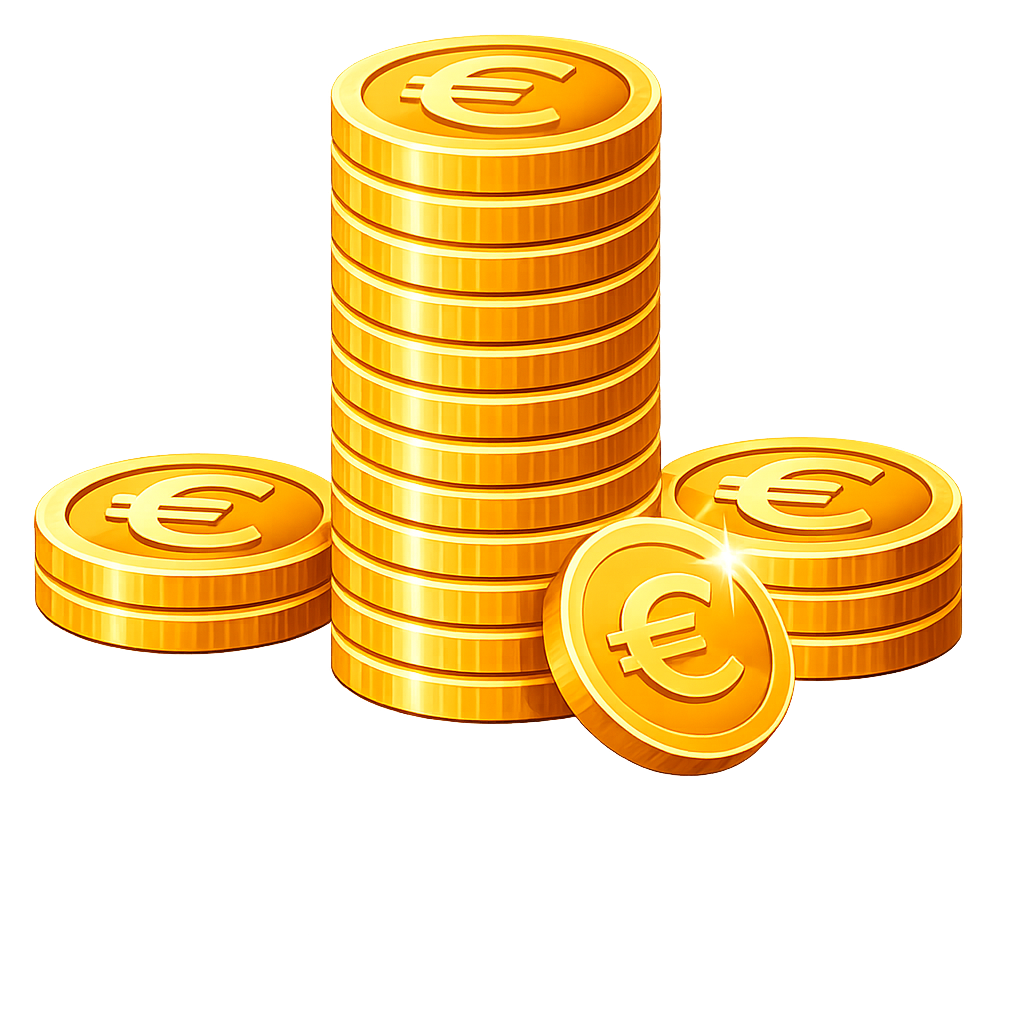
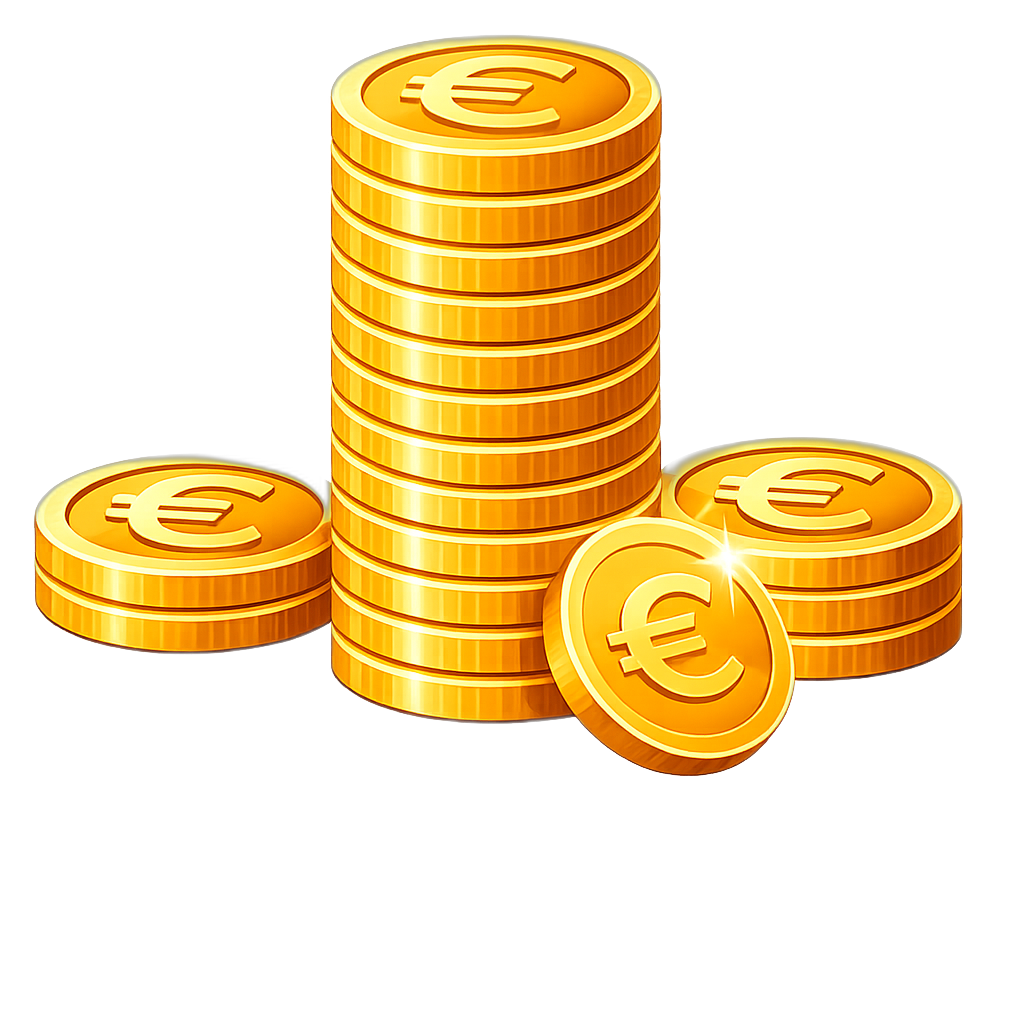
refactor: update API base URL and endpoints in constants

diff --git a/lib/features/onboarding/presentation/widgets/onboarding_page_widget.dart b/lib/features/onboarding/presentation/widgets/onboarding_page_widget.dart
@@ -13,10 +13,6 @@ class OnboardingPageWidget extends StatelessWidget {
   Widget build(BuildContext context) {
     final screenHeight = MediaQuery.of(context).size.height;
     final isSmallScreen = screenHeight < 700;
-    // Scale image height based on screen size, capping for small devices
-    final imageHeight = isSmallScreen
-        ? (data.imageHeight * 0.65).clamp(180.0, 240.0)
-        : data.imageHeight;
     final verticalGap = isSmallScreen ? 20.0 : 40.0;
     final subtitleGap = isSmallScreen ? 12.0 : 20.0;
 
@@ -25,49 +21,66 @@ class OnboardingPageWidget extends StatelessWidget {
         ? AssetPaths.onboardingTrackingLight
         : data.imagePath;
 
-    return Column(
-      children: [
-        const Spacer(flex: 2),
+    return LayoutBuilder(
+      builder: (context, constraints) {
+        final availableHeight = constraints.maxHeight;
+        
+        // Dynamically scale image height to prevent overflow
+        final dynamicImageHeight = data.fullWidthImage 
+            ? (availableHeight * 0.45).clamp(150.0, 350.0)
+            : (availableHeight * 0.45).clamp(200.0, 350.0);
 
-        // ── Illustration ─────────────────────────────
-        if (data.fullWidthImage)
-          _buildFullWidthImage(context, imageHeight, resolvedImagePath)
-        else
-          Padding(
-            padding: EdgeInsets.symmetric(horizontal: data.horizontalPadding),
-            child: SizedBox(
-              height: imageHeight,
-              child: Image.asset(
-                resolvedImagePath,
-                fit: BoxFit.contain,
-              ),
+        return SingleChildScrollView(
+          child: ConstrainedBox(
+            constraints: BoxConstraints(minHeight: availableHeight),
+            child: Column(
+              mainAxisAlignment: MainAxisAlignment.center,
+              children: [
+                SizedBox(height: availableHeight * 0.05),
+
+                // ── Illustration ─────────────────────────────
+                if (data.fullWidthImage)
+                  _buildFullWidthImage(context, dynamicImageHeight, resolvedImagePath)
+                else
+                  Padding(
+                    padding: EdgeInsets.symmetric(horizontal: data.horizontalPadding),
+                    child: SizedBox(
+                      height: dynamicImageHeight,
+                      child: Image.asset(
+                        resolvedImagePath,
+                        fit: BoxFit.contain,
+                      ),
+                    ),
+                  ),
+
+                SizedBox(height: verticalGap),
+
+                // ── Title ────────────────────────────────────
+                Padding(
+                  padding: const EdgeInsets.symmetric(horizontal: 32),
+                  child: _buildTitle(context),
+                ),
+
+                SizedBox(height: subtitleGap),
+
+                // ── Subtitle ─────────────────────────────────
+                Padding(
+                  padding: const EdgeInsets.symmetric(horizontal: 32),
+                  child: Text(
+                    data.subtitle,
+                    textAlign: TextAlign.center,
+                    style: AppTextStyles.onboardingSubtitle.copyWith(
+                      color: Theme.of(context).textTheme.bodyMedium?.color,
+                    ),
+                  ),
+                ),
+                
+                SizedBox(height: availableHeight * 0.1),
+              ],
             ),
           ),
-
-        SizedBox(height: verticalGap),
-
-        // ── Title ────────────────────────────────────
-        Padding(
-          padding: const EdgeInsets.symmetric(horizontal: 32),
-          child: _buildTitle(context),
-        ),
-
-        SizedBox(height: subtitleGap),
-
-        // ── Subtitle ─────────────────────────────────
-        Padding(
-          padding: const EdgeInsets.symmetric(horizontal: 32),
-          child: Text(
-            data.subtitle,
-            textAlign: TextAlign.center,
-            style: AppTextStyles.onboardingSubtitle.copyWith(
-              color: Theme.of(context).textTheme.bodyMedium?.color,
-            ),
-          ),
-        ),
-
-        const Spacer(flex: 3),
-      ],
+        );
+      }
     );
   }
 

diff --git a/lib/features/ride/presentation/screens/ride_complete_screen.dart b/lib/features/ride/presentation/screens/ride_complete_screen.dart
@@ -11,7 +11,8 @@ import '../../data/models/saved_payment_method.dart';
 import '../providers/ride_providers.dart';
 import '../providers/active_ride_provider.dart';
 import '../providers/active_ride_state.dart';
-import '../../history/presentation/screens/receipt_screen.dart';
+import '../../../history/presentation/screens/receipt_screen.dart';
+import '../../../history/data/models/ride_history_item.dart';
 
 class RideCompleteScreen extends ConsumerStatefulWidget {
   const RideCompleteScreen({super.key});
@@ -569,7 +570,25 @@ class _RideCompleteScreenState extends ConsumerState<RideCompleteScreen>
                       builder: (_) => const Center(child: CircularProgressIndicator(color: AppColors.primaryGold)),
                     );
                     try {
-                      final bytes = await generateInvoicePdf(rideState.ride!);
+                      final rideItem = RideHistoryItem(
+                        id: rideState.ride!.id,
+                        status: rideState.ride!.status,
+                        pickupAddress: rideState.ride!.pickupAddress,
+                        dropoffAddress: rideState.ride!.dropoffAddress,
+                        vehicleType: rideState.ride!.vehicleType,
+                        createdAt: rideState.ride!.createdAt,
+                        estimatedFare: rideState.ride!.estimatedFare,
+                        actualFare: rideState.ride!.actualFare,
+                        paymentMethod: rideState.ride!.paymentMethod,
+                        baseFare: rideState.ride!.baseFare,
+                        distanceFare: rideState.ride!.distanceFare,
+                        timeFare: rideState.ride!.timeFare,
+                        bookingFee: rideState.ride!.bookingFee,
+                        tipAmount: rideState.ride!.tipAmount,
+                        extraFare: rideState.ride!.extraFare,
+                        goCoinsEarned: rideState.ride!.actualFare != null ? (rideState.ride!.actualFare! * 10).toInt() : 0, // Mock for invoice UI
+                      );
+                      final bytes = await generateInvoicePdf(rideItem);
                       if (context.mounted) Navigator.pop(context); // close loading
                       await Printing.sharePdf(bytes: bytes, filename: 'Gozolt_Invoice_${rideState.ride!.id.substring(0, 8)}.pdf');
                     } catch (e) {

diff --git a/lib/core/constants/asset_paths.dart b/lib/core/constants/asset_paths.dart
@@ -14,8 +14,8 @@ abstract final class AssetPaths {
   static const String appleLogo = '$_images/apple_logo.png';
 
   // ── Onboarding ─────────────────────────────────────────
-  static const String onboardingRide = '$_images/onboarding_ride.png';
-  static const String onboardingCoins = '$_images/onboarding_coins.png';
+  static const String onboardingRide = 'assets/onboarding_ride.png';
+  static const String onboardingCoins = 'assets/onboarding_coins.png';
   static const String onboardingTracking = '$_images/onboarding_tracking.jpg';
   static const String onboardingTrackingLight = '$_images/light_onboarding_tracking.png';
 

diff --git a/lib/features/onboarding/data/onboarding_data.dart b/lib/features/onboarding/data/onboarding_data.dart
@@ -20,7 +20,7 @@ class OnboardingPageData {
     this.imageHeight = 280.0,
     this.fadeTop = false,
     this.fullWidthImage = false,
-    this.horizontalPadding = 32.0,
+    this.horizontalPadding = 0.0,
   });
 }
 
@@ -39,7 +39,7 @@ const onboardingPages = [
         'Obtain digital rewards on each journey. You can use it to get premium upgrades and exclusive luxury benefits.',
     imagePath: AssetPaths.onboardingCoins,
     imageHeight: 320.0,
-    horizontalPadding: 16.0,
+    horizontalPadding: 0.0,
   ),
   OnboardingPageData(
     title: '"Track ',

diff --git a/lib/core/constants/api_constants.dart b/lib/core/constants/api_constants.dart
@@ -1,6 +1,6 @@
 abstract final class ApiConstants {
   // ── Base URL ───────────────────────────────────────────
-  static const bool useLocal = true;
+  static const bool useLocal = false;
 
   static const String baseUrl = useLocal 
       ? 'http://127.0.0.1:3000/v1' 